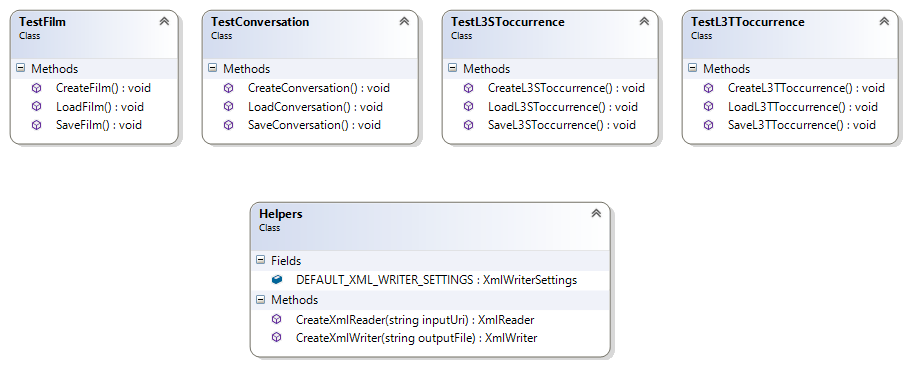
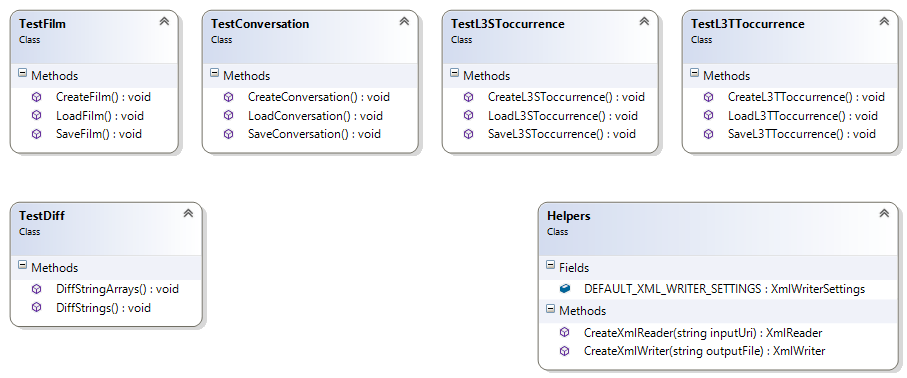
- Implemented Diff tests for getting changes from string to string and from string[] to string[] - At L3TToccurrence now calculating L3STmodeChange and L3STfunctionsChange fields - Updated Diagrams - Updated NuGet package version

diff --git a/Utils/Diff.cs b/Utils/Diff.cs
@@ -1,0 +1,60 @@
+//Project: Trafilm.Metadata (https://github.com/Zoomicon/Trafilm.Metadata)
+//Filename: Diff.cs
+//Version: 20160527
+
+using System;
+using System.Collections.Generic;
+using System.Linq;
+
+namespace Trafilm.Metadata.Utils
+{
+
+  public static class Diff
+  {
+
+    #region --- Methods --
+
+    public static string GetDifference(string a, string b)
+    {
+      if (String.IsNullOrEmpty(a) && String.IsNullOrEmpty(b))
+        return "";
+
+      return (a == b) ? TrafilmMetadata.VALUE_NONE : a + " -> " + b;
+    }
+
+    public static string[] GetDifferences(string[] a, string[] b)
+    {
+      if (a == null)
+      {
+
+        if (b == null)
+          return new string[] { };
+
+        return b.Select(s => "+ " + s).ToArray();
+      }
+      else //if (a != null)
+      {
+        if (b == null)
+          return b.Select(s => "- " + s).ToArray();
+
+        var result = new List<string>();
+
+        foreach (string s in a)
+          if (!b.Contains(s)) //assuming we have handled (b == null) above
+            result.Add("- " + s);
+
+        foreach (string s in b) //assuming we have handled (b == null) above
+          if (!a.Contains(s)) //assuming we have handled (a == null) above
+            result.Add("+ " + s);
+
+        if (result.Count == 0)
+          result.Add("None");
+
+        return result.ToArray();
+      }
+    }
+
+    #endregion
+
+  }
+}

diff --git a/Tests/TestDiff.cs b/Tests/TestDiff.cs
@@ -1,0 +1,30 @@
+//Project: Trafilm.Metadata (https://github.com/Zoomicon/Trafilm.Metadata)
+//Filename: TestDiff.cs
+//Version: 20160527
+
+using Trafilm.Metadata.Utils;
+
+using Microsoft.VisualStudio.TestTools.UnitTesting;
+
+namespace Trafilm.Metadata.Tests
+{
+  [TestClass]
+  public class TestDiff
+  {
+    [TestMethod]
+    public void DiffStrings()
+    {
+      Assert.AreEqual("None", Diff.GetDifference("a", "a"));
+      Assert.AreEqual("a -> b", Diff.GetDifference("a", "b"));
+      Assert.AreEqual("b -> a", Diff.GetDifference("b", "a"));
+    }
+
+    [TestMethod]
+    public void DiffStringArrays()
+    {
+      CollectionAssert.AreEqual(new string[] { "None" }, Diff.GetDifferences(new string[] { "a", "b", "c" }, new string[] { "c", "a", "b" }));
+      CollectionAssert.AreEqual(new string[] { "- a", "- c", "+ d" }, Diff.GetDifferences(new string[] { "a", "b", "c" }, new string[] { "d", "b" }));
+    }
+
+  }
+}

diff --git a/LinkedData/L3TToccurrence/L3TToccurrence.cs b/LinkedData/L3TToccurrence/L3TToccurrence.cs
@@ -1,8 +1,9 @@
 //Project: Trafilm.Metadata (https://github.com/Zoomicon/Trafilm.Metadata)
 //Filename: L3TToccurrence.cs
-//Version: 20160525
+//Version: 20160527
 
 using Trafilm.Metadata.Models;
+using Trafilm.Metadata.Utils;
 
 namespace Trafilm.Metadata
 {
@@ -32,8 +33,8 @@ namespace Trafilm.Metadata
 
         if (value != null)
         {
-          //TODO: calculate modeChange, functionsChange, ...
-
+          L3STmodeChange = Diff.GetDifferences(value.L3STmode, L3TTmode);
+          L3STfunctionsChange = Diff.GetDifferences(value.L3STfunctions, L3TTfunctions);
           //...
         }
         else

diff --git a/Metadata/TrafilmMetadata.cs b/Metadata/TrafilmMetadata.cs
@@ -1,6 +1,6 @@
 //Project: Trafilm.Metadata (https://github.com/Zoomicon/Trafilm.Metadata)
 //Filename: TrafilmMetadtata.cs
-//Version: 20160522
+//Version: 20160527
 
 using Metadata.CXML;
 
@@ -15,8 +15,14 @@ namespace Trafilm.Metadata
   public abstract class TrafilmMetadata : CXMLMetadata, ITrafilmMetadata
   {
 
+    #region --- Constants ---
+
+    public const string VALUE_NONE = "None";
+
+    #endregion
+
     #region --- Properties ---
-   
+
     public string ReferenceId { get; set; }
     public DateTime InfoCreated { get; set; }
     public DateTime InfoUpdated { get; set; }

diff --git a/Metadata/L3TToccurrence/L3TToccurrenceMetadata.cs b/Metadata/L3TToccurrence/L3TToccurrenceMetadata.cs
@@ -1,6 +1,6 @@
 //Project: Trafilm.Metadata (https://github.com/Zoomicon/Trafilm.Metadata)
 //Filename: L3TToccurrenceMetadata.cs
-//Version: 20160526
+//Version: 20160527
 
 using Metadata.CXML;
 using Trafilm.Metadata.Models;

diff --git a/Tests/TestL3TToccurrence.cs b/Tests/TestL3TToccurrence.cs
@@ -1,6 +1,6 @@
 //Project: Trafilm.Metadata (https://github.com/Zoomicon/Trafilm.Metadata)
 //Filename: TestL3TToccurrence.cs
-//Version: 20160525
+//Version: 20160527
 
 using Trafilm.Metadata.Models;
 
